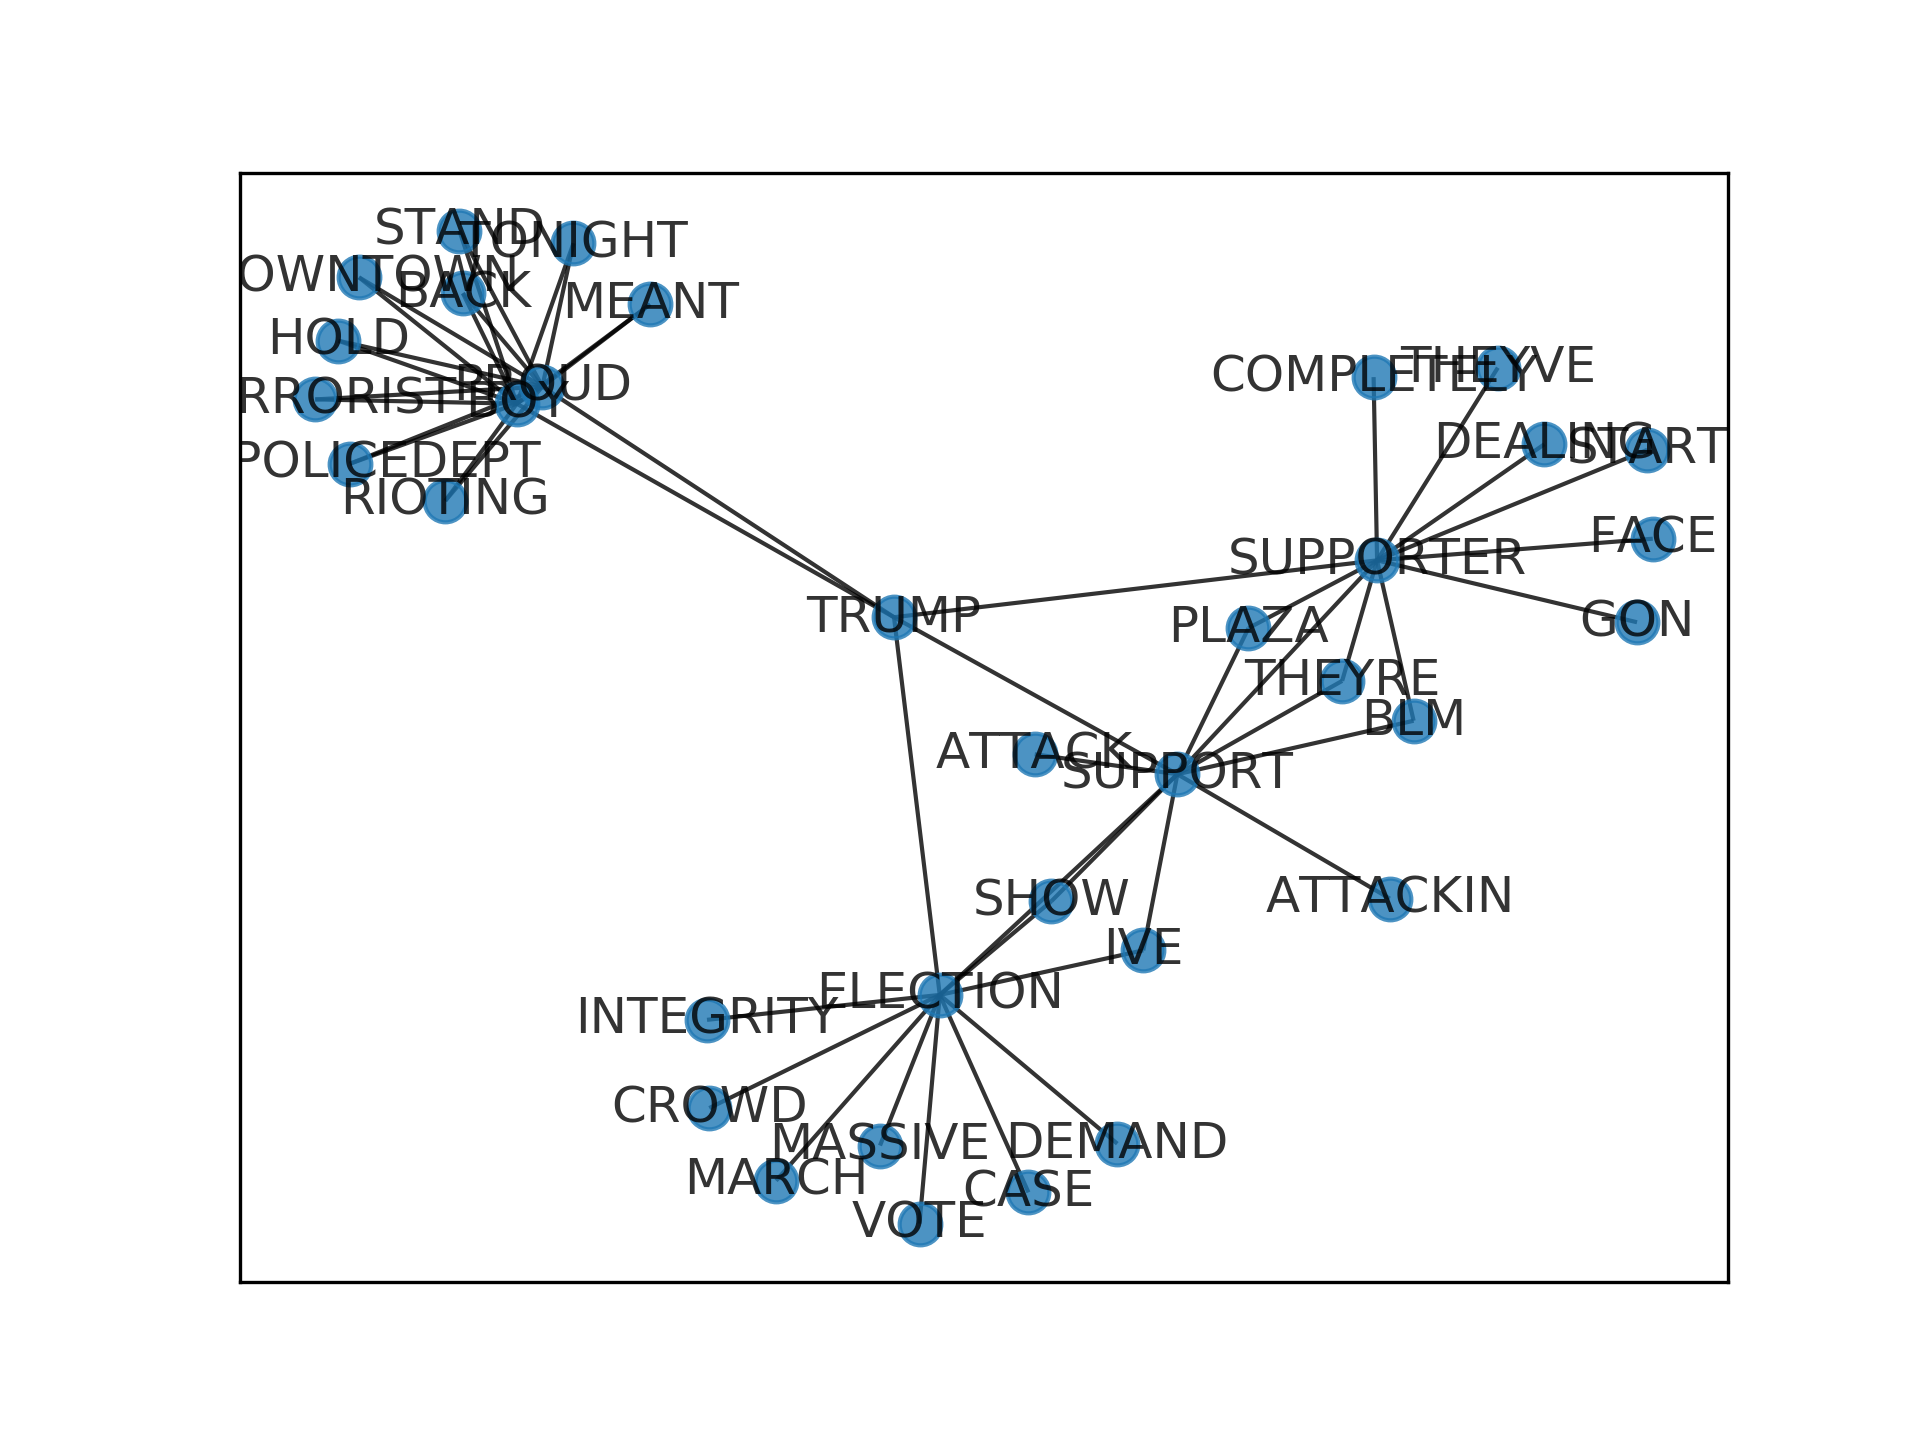
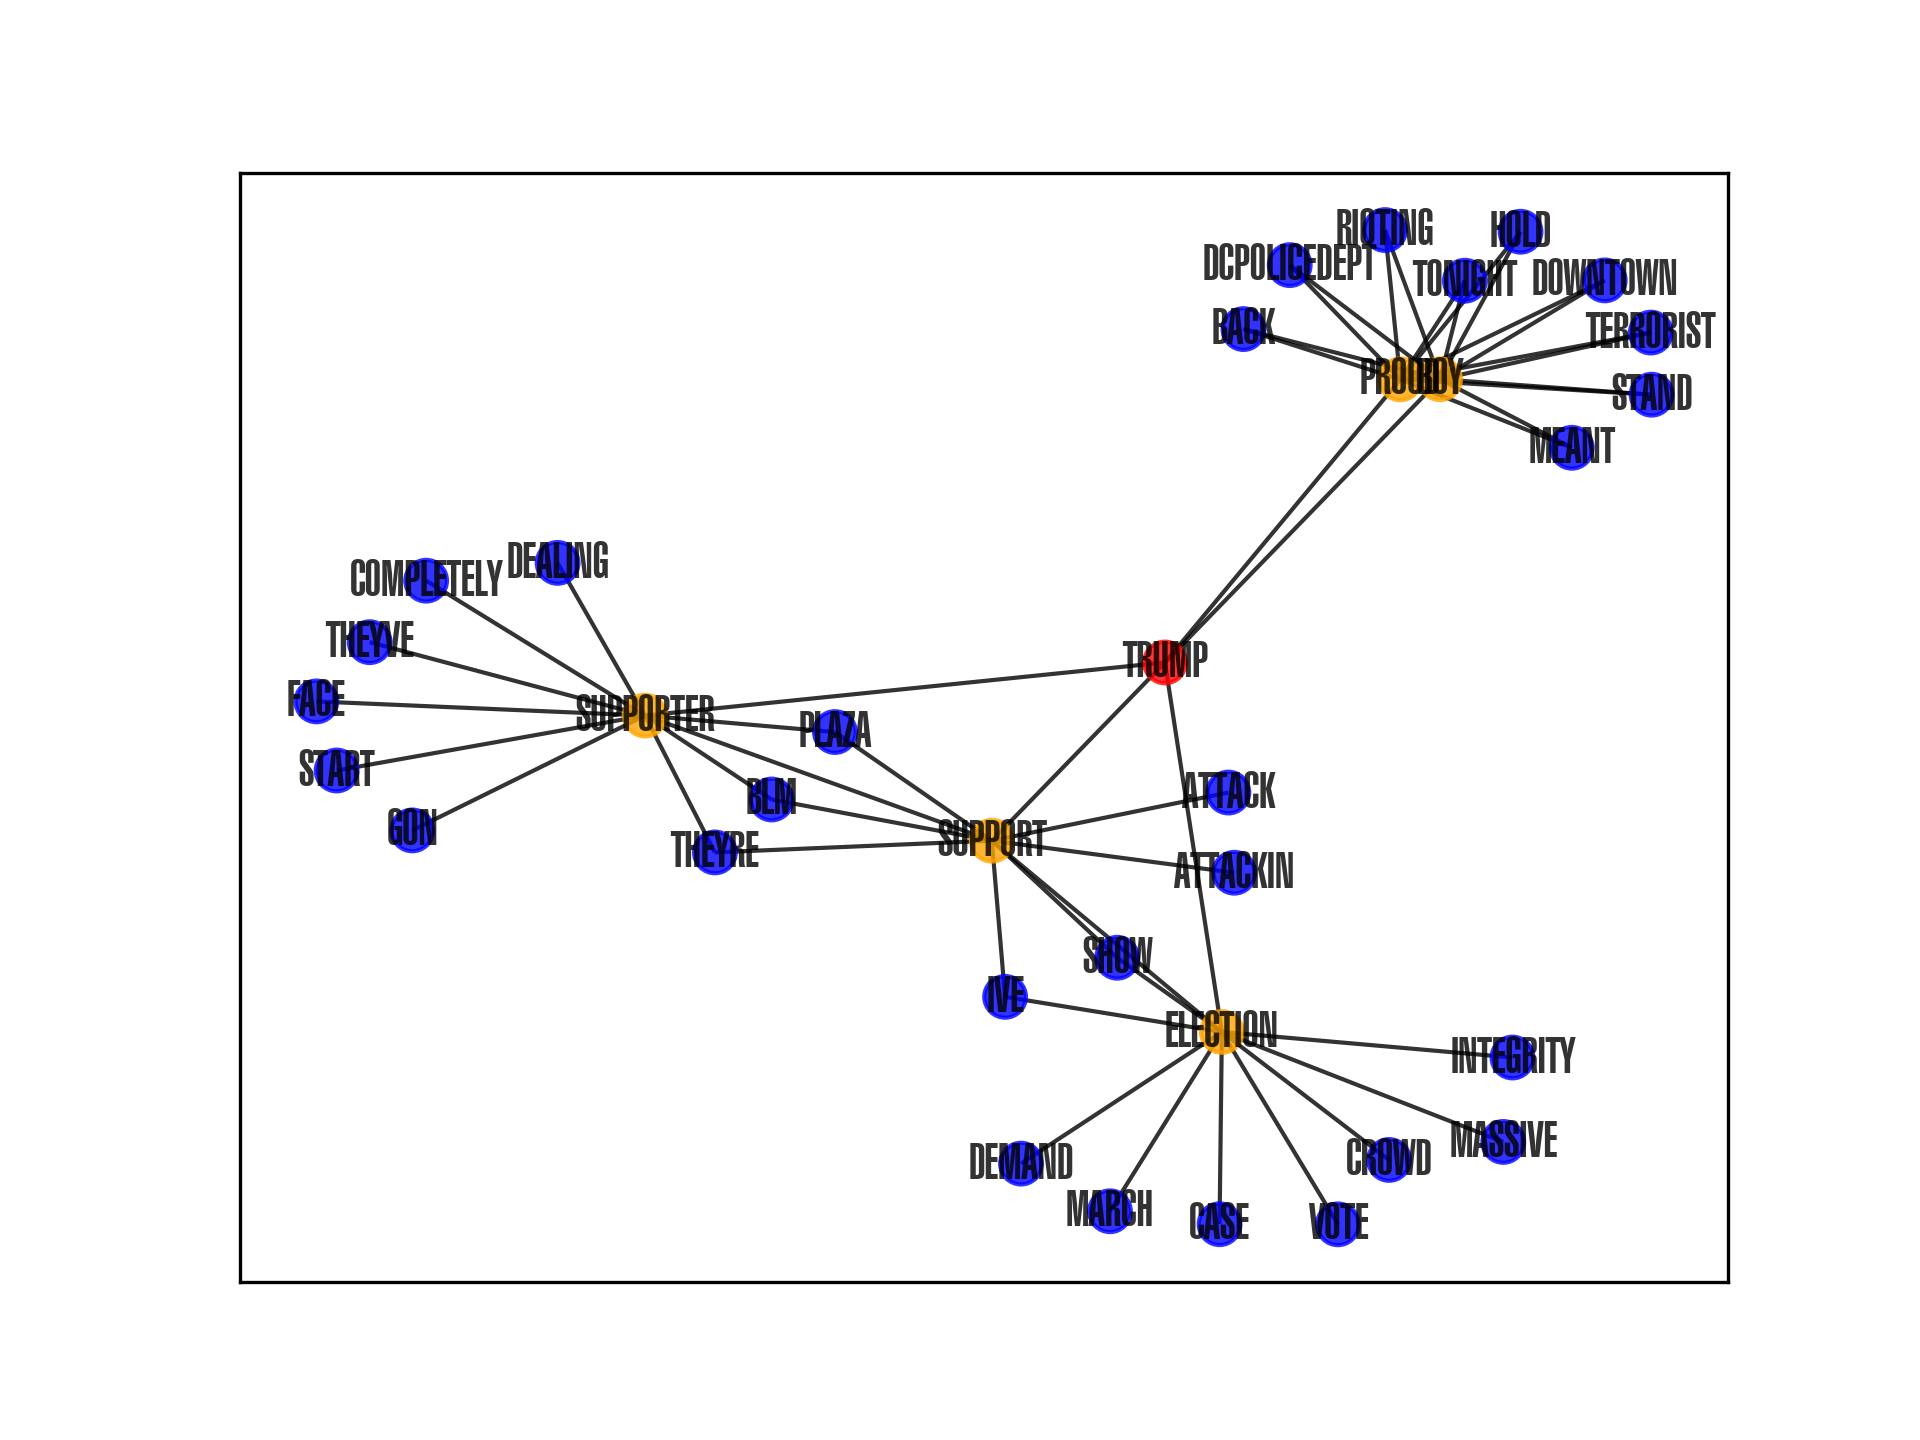
Added custom fonts!

Changed region(s): [[0.125, 0.125, 0.9062, 0.875], [0.3125, 0.3125, 0.4062, 0.375], [0.1875, 0.5625, 0.25, 0.5938]]

diff --git a/James_IdeaTesting/TwitterVisualiser/coocurrance_plot.py b/James_IdeaTesting/TwitterVisualiser/coocurrance_plot.py
@@ -1,6 +1,8 @@
 from collections import Counter
 from textblob import TextBlob
+import matplotlib as mpl
 import matplotlib.pylab as plt
+import matplotlib.font_manager as font_manager
 import pandas as pd
 import numpy as np
 from nltk.corpus import stopwords
@@ -28,6 +30,12 @@ def dice_significance(cooc_array, word, word_list):
 PROJ_PATH = "/Users/jamesashford/Documents/Projects/Hackathons/Oxford Hack 2020/OxHack-2020/James_IdeaTesting/TwitterVisualiser/"
 NUM_OF_COOCS = 5
 
+# Sort out fonts
+font_files = font_manager.findSystemFonts(fontpaths=f"{PROJ_PATH}rsc")
+font_list = font_manager.createFontList(font_files)
+font_manager.fontManager.ttflist.extend(font_list)
+mpl.rcParams['font.family'] = 'Silom' #'Swiss911 UCm BT'
+
 # Read in tweets
 search_term = 'Trump'
 tweet_file = pd.read_csv(f"{PROJ_PATH}rsc/{search_term}_tweets.csv")
@@ -50,18 +58,16 @@ dtm = np.array([[1 if (tweet.upper().count(word) > 0) else 0 for word in key_wor
 cooc = np.dot(dtm.T, dtm)
 
 graph_data = []
+tier2_names = []
 for term in TextBlob(search_term).words:
-
     # Statistical significance of search_term
     term_dice_stats = dice_significance(cooc, term, key_words)
     term_dice_stats = dict_value_sort(term_dice_stats)
-
     # Get NUM_OF_COOCS most similar words
     most_similar = list(term_dice_stats.keys())[0:NUM_OF_COOCS]
-
+    tier2_names += most_similar
     # Create a structure to hold the node links
     graph_data += [{"from":term.upper(), "to":set_name, "stat":term_dice_stats[set_name]} for set_name in most_similar]
-
     # Iterate over each of the chosen coocs, and find their closest
     for word in most_similar:
         # Find stats for this word
@@ -78,11 +84,24 @@ gd = pd.DataFrame.from_dict(graph_data)
 # Create co-occurance graph
 # G = nx.from_numpy_matrix(cooc)
 G = nx.from_pandas_edgelist(gd, "from", "to", "stat")
-# pos = nx.spring_layout(G, k=0.42, iterations=17)
+pos = nx.spring_layout(G)
+G_labels = nx.draw_networkx_labels(G, pos, font_family="Swiss911 UCm BT")
+
+# Generate colours
+colours = []
+for node in G:
+    if node in TextBlob(search_term).words.upper():
+        col = 'red'
+    elif node in tier2_names:
+        col = 'orange'
+    else:
+        col = 'blue'
+    colours.append(col)
 
 # Visualisation
 fig = plt.figure()
-nx.draw_networkx(G, with_labels=True, node_size=100, alpha=0.8, cmap="Blues")
+nx.draw_networkx(G, with_labels=True, node_size=100, alpha=0.8, node_color=colours, font_family="Swiss911 UCm BT")
+
 # Save
 save_name = f"{PROJ_PATH}output/{search_term}_coocgraph.png"
 plt.savefig(save_name, dpi=300)
